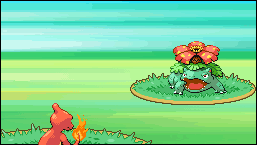
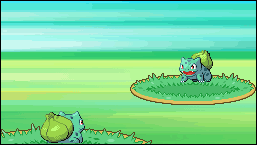
chekpoint

Changed region(s): [[0.6537, 0.2759, 0.9027, 0.6621], [0.1245, 0.7172, 0.3424, 1.0]]

diff --git a/src/rars/tools/PokemonGraphics.java b/src/rars/tools/PokemonGraphics.java
@@ -36,14 +36,6 @@ public class PokemonGraphics extends AbstractToolAndApplication {
     public static Dimension preferredTextAreaDimension = new Dimension(1000, 250);
     private static Insets textAreaInsets = new Insets(4, 4, 4, 4);
 
-    public static int POKEMON_1_STATUS;     // Registro de estado del primer pokemon
-    public static int POKEMON_1_COMMAND;    // Registro de comandos del primer pokemon
-    public static int POKEMON_2_STATUS;     // Registro de estado del segundo pokemon
-    public static int POKEMON_2_COMMAND;    // Registro de comandos del segundo pokemon
-
-    private int intCommand;                 // Numero del comando a ejecutar
-    private int intStatus;                  // Numero del estado
-
     // Whether or not display position is sequential (JTextArea append)
     // or random access (row, column).  Supports new random access feature. DPS 17-July-2014
     private boolean displayRandomAccessMode = false;
@@ -62,6 +54,18 @@ public class PokemonGraphics extends AbstractToolAndApplication {
     private JButton fontButton;
     private Font defaultFont = new Font(Font.MONOSPACED, Font.PLAIN, 12);
 
+    public static int POKEMON_1_STATUS;     // Registro de estado del primer pokemon
+    public static int POKEMON_1_COMMAND;    // Registro de comandos del primer pokemon
+    public static int POKEMON_2_STATUS;     // Registro de estado del segundo pokemon
+    public static int POKEMON_2_COMMAND;    // Registro de comandos del segundo pokemon
+
+    private int idPokeAtk = 1;
+    private int idPokeDef = 1;
+
+    private int intCommand;                 // Numero del comando a ejecutar
+    private int intStatus;                  // Numero del estado
+    
+    String pathPokemons = "./src/images/pokemon/";
     private int poke_def_x = 165;
     private int poke_def_y = 35;
     private int poke_atk_x = 30;
@@ -165,21 +169,24 @@ public class PokemonGraphics extends AbstractToolAndApplication {
         int command = (int) (intCommand & 0x000000FF);
         if (command == 1){
             logDisplay.append("El pokemon " + intPokemon + " ha usado su ataque " + command + "\n");
-            display.append("Pokemon: " + intPokemon + " Ataque: " + command + "\n");
         } else if (command == 2){
             logDisplay.append("El pokemon " + intPokemon + " ha usado su ataque " + command + "\n");
-            display.append("Pokemon: " + intPokemon + " Ataque: " + command + "\n");
         } else if (command == 3){
             logDisplay.append("El pokemon " + intPokemon + " ha usado su ataque " + command + "\n");
-            display.append("Pokemon: " + intPokemon + " Ataque: " + command + "\n");
         } else if (command == 4){
             logDisplay.append("El pokemon " + intPokemon + " ha usado su ataque " + command + "\n");
-            display.append("Pokemon: " + intPokemon + " Ataque: " + command + "\n");
         }
     }
 
     private void getStatus(int intStatus, int intPokemon) {
         int status = (int) (intStatus & 0x000000FF);
+        int id = (int) (intStatus & 0x0000FF00) >> 8;
+        System.out.println("Pokemon " + intPokemon + " id: " + id);
+        if (id > 0 && intPokemon == 1){
+            idPokeAtk = id;
+        } else if (id > 0 && intPokemon == 2){
+            idPokeDef = id;
+        }
         if (status == 1){
             logDisplay.append("Oh no! El pokemon " + intPokemon + " esta envenando!\n");
         } else if (status == 2){
@@ -201,39 +208,12 @@ public class PokemonGraphics extends AbstractToolAndApplication {
      */
     protected void reset() {
         displayRandomAccessMode = false;
-        initializeDisplay(displayRandomAccessMode);
         logDisplay.setText("Se ha iniciado una nueva batalla pokemon\n");
         ((TitledBorder) displayPanel.getBorder()).setTitle(displayPanelTitle);
         displayPanel.repaint();
+        buildDisplay();
         logDisplay.requestFocusInWindow();
     }
-
-
-    // The display JTextArea (top half) is initialized either to the empty
-    // string, or to a string filled with lines of spaces. It will do the
-    // latter only if the program has sent the BELL character (Ascii 7) to
-    // the transmitter.  This sets the caret (cursor) to a specific (x,y) position
-    // on a text-based virtual display.  The lines of spaces is necessary because
-    // the caret can only be placed at a position within the current text string.
-    private void initializeDisplay(boolean randomAccess) {
-        String initialText = "";
-        if (randomAccess) {
-            Dimension textDimensions = getDisplayPanelTextDimensions();
-            columns = (int) textDimensions.getWidth();
-            rows = (int) textDimensions.getHeight();
-            char[] charArray = new char[columns];
-            Arrays.fill(charArray, VT_FILL);
-            String row = new String(charArray);
-            StringBuffer str = new StringBuffer(row);
-            for (int i = 1; i < rows; i++) {
-                str.append("\n" + row);
-            }
-            initialText = str.toString();
-        }
-        display.setText(initialText);
-        display.setCaretPosition(0);
-    }
-
 
     // Calculate text display capacity of display window. Text dimensions are based
     // on pixel dimensions of window divided by font size properties.
@@ -299,11 +279,13 @@ public class PokemonGraphics extends AbstractToolAndApplication {
     }
 
     private void mergeImages(){
+        System.out.println("Merge de imagen!" + idPokeAtk + idPokeDef);
         try {
-            String path = "./src/images/pokemon/";
-            BufferedImage background = ImageIO.read(new File(path, "grass_background.png"));
-            BufferedImage pokemon_defensor = ImageIO.read(new File(path, "front/003.png"));
-            BufferedImage pokemon_atacante = ImageIO.read(new File(path, "back/005.png"));
+            String idAtk = "front/" + String.format("%03d", idPokeAtk) + ".png";
+            String idDef = "back/" + String.format("%03d", idPokeDef) + ".png";
+            BufferedImage background = ImageIO.read(new File(pathPokemons, "grass_background.png"));
+            BufferedImage pokemon_defensor = ImageIO.read(new File(pathPokemons, idAtk));
+            BufferedImage pokemon_atacante = ImageIO.read(new File(pathPokemons, idDef));
 
             // create the new image, canvas size is the max. of both image sizes
             int w = background.getWidth();
@@ -318,7 +300,7 @@ public class PokemonGraphics extends AbstractToolAndApplication {
             g.dispose();
 
             // Save as new image
-            ImageIO.write(combined, "PNG", new File(path, "temp.png"));
+            ImageIO.write(combined, "PNG", new File(pathPokemons, "temp.png"));
 
         } catch (IOException ex) {
             // handle exception...
@@ -328,8 +310,7 @@ public class PokemonGraphics extends AbstractToolAndApplication {
     private JPanel addImage(JPanel displayPanel){
         try {
             mergeImages();
-            // BufferedImage image = ImageIO.read(new File("./src/images/dratini.png"));
-            BufferedImage image = ImageIO.read(new File("./src/images/pokemon/temp.png"));
+            BufferedImage image = ImageIO.read(new File(pathPokemons, "temp.png"));
             JLabel picLabel = new JLabel(new ImageIcon(image));
             displayPanel.add(picLabel);
         } catch (IOException ex) {
@@ -346,30 +327,6 @@ public class PokemonGraphics extends AbstractToolAndApplication {
         displayPanel = addImage(displayPanel);
         return displayPanel;
     }
-
-    private JComponent buildDisplayoriginal() {
-        displayPanel = new JPanel(new BorderLayout());
-        TitledBorder tb = new TitledBorder(displayPanelTitle);
-        tb.setTitleJustification(TitledBorder.CENTER);
-        displayPanel.setBorder(tb);
-        display = new JTextArea();
-        display.setFont(defaultFont);
-        display.setEditable(false);
-        display.setMargin(textAreaInsets);
-        updateDisplayBorder = new DisplayResizeAdapter();
-        // 	To update display of size in the Display text area when window or font size changes.
-        display.addComponentListener(updateDisplayBorder);
-        DefaultCaret caret = (DefaultCaret) display.getCaret();
-        caret.setUpdatePolicy(DefaultCaret.ALWAYS_UPDATE);
-        // end added autoscrolling
-
-        displayScrollPane = new JScrollPane(display);
-        displayScrollPane.setPreferredSize(preferredTextAreaDimension);
-
-        displayPanel.add(displayScrollPane);
-        return displayPanel;
-    }
-
 
     //////////////////////////////////////////////////////////////////////////////////////
     // UI components and layout for lower part of GUI, where simulated keyboard is located.
